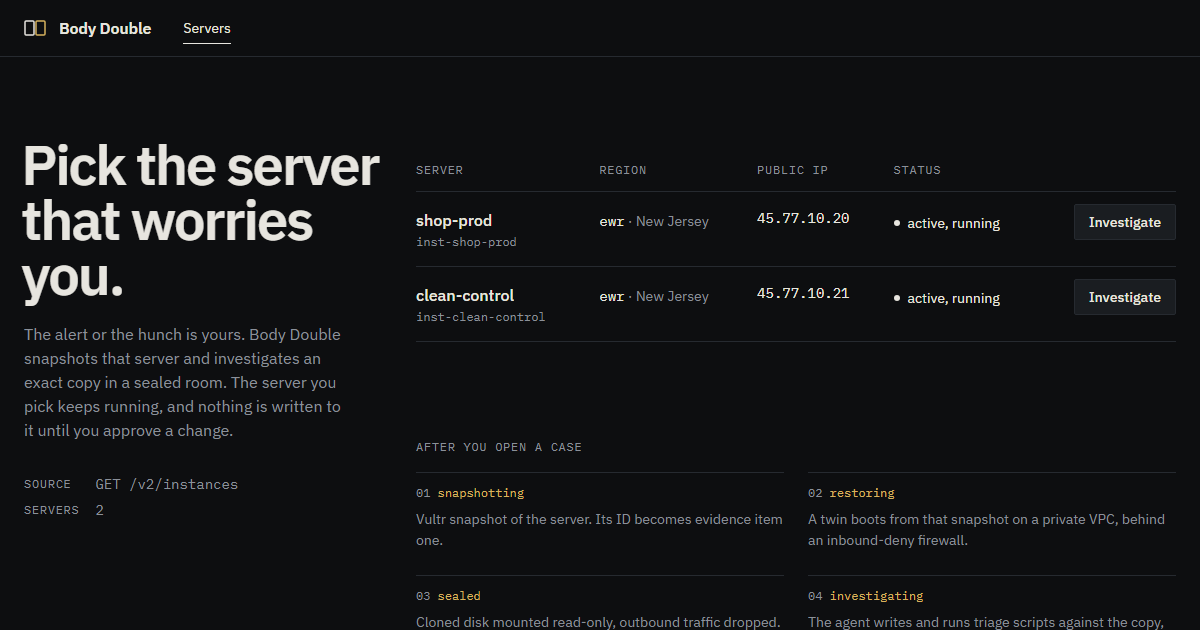
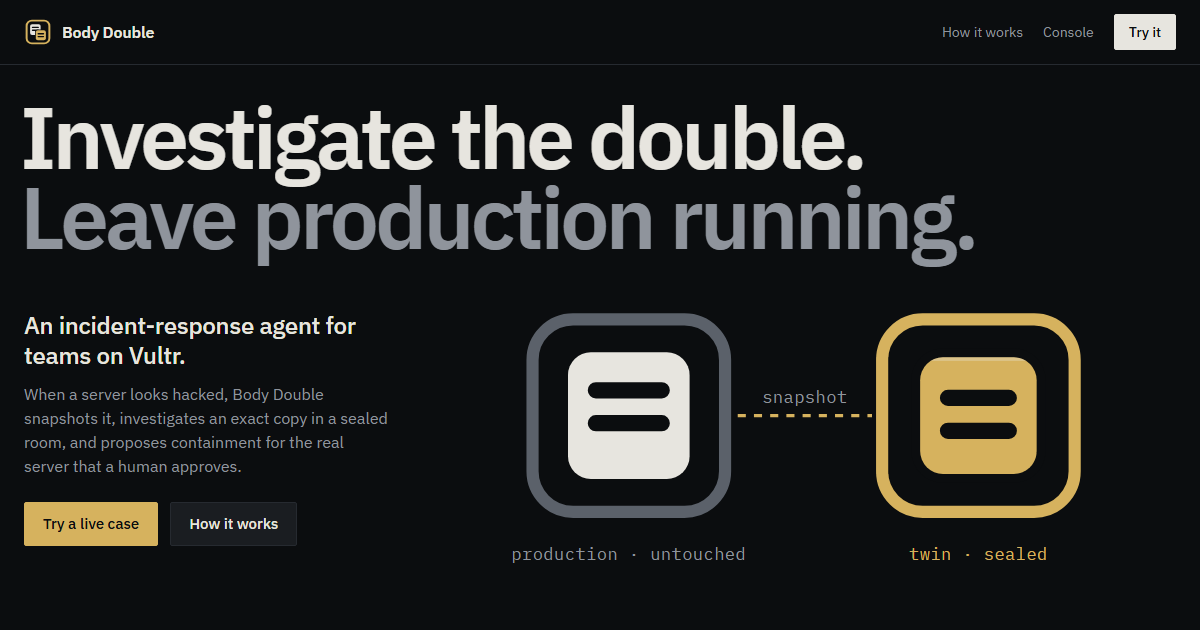
web: production metadata (Task 5): VITE_SITE_URL canonical/OG/Twitter, robots + sitemap, JSON-LD, new OG image, designed 404, per-route titles

diff --git a/web/index.html b/web/index.html
@@ -7,27 +7,44 @@
     <link rel="apple-touch-icon" href="/apple-touch-icon.png" />
     <link rel="manifest" href="/site.webmanifest" />
     <meta name="viewport" content="width=device-width, initial-scale=1.0" />
-    <title>Body Double</title>
-    <meta name="description" content="Investigate a suspect Vultr server on a sealed twin. Production is never touched until you approve a change." />
+    <title>Body Double: investigate a hacked Vultr server on its sealed twin</title>
+    <meta name="description" content="Body Double snapshots a suspect Vultr server, investigates an exact copy in a sealed room, and proposes containment a human approves. Production keeps running." />
+    <link rel="canonical" href="%VITE_SITE_URL%/" />
     <meta name="theme-color" content="#0b0d0f" />
     <meta property="og:type" content="website" />
-    <meta property="og:title" content="Body Double" />
-    <meta property="og:description" content="Investigate a suspect Vultr server on a sealed twin. Production is never touched until you approve a change." />
-    <meta property="og:image" content="/og.png" />
+    <meta property="og:site_name" content="Body Double" />
+    <meta property="og:url" content="%VITE_SITE_URL%/" />
+    <meta property="og:title" content="Body Double: investigate the double, leave production running" />
+    <meta property="og:description" content="An incident-response agent for teams on Vultr. It investigates a sealed copy of a hacked server; production changes only when a human approves." />
+    <meta property="og:image" content="%VITE_SITE_URL%/og.png" />
     <meta property="og:image:width" content="1200" />
     <meta property="og:image:height" content="630" />
+    <meta property="og:image:alt" content="Body Double: the original server in a grey frame marked untouched, its twin in a sealed brass frame." />
     <meta name="twitter:card" content="summary_large_image" />
-    <style>html,body{background:#0b0d0f;color:#e7e5df;margin:0}</style>
+    <meta name="twitter:title" content="Body Double: investigate the double, leave production running" />
+    <meta name="twitter:description" content="An incident-response agent for teams on Vultr. It investigates a sealed copy of a hacked server; production changes only when a human approves." />
+    <meta name="twitter:image" content="%VITE_SITE_URL%/og.png" />
+    <script type="application/ld+json">
+      {"@context":"https://schema.org","@type":"SoftwareApplication","name":"Body Double","applicationCategory":"SecurityApplication","operatingSystem":"Linux servers on Vultr","url":"%VITE_SITE_URL%/","description":"Incident-response agent for teams on Vultr: snapshots a suspect server, investigates a sealed twin, proposes containment a human approves.","license":"https://opensource.org/licenses/MIT"}
+    </script>
+    <style>html,body{background:#0b0d0f;color:#e7e5df;margin:0}.shell{font-family:system-ui,sans-serif;max-width:1600px;margin:0 auto;padding:120px 24px 80px}.shell h1{font-size:clamp(2.6rem,.8rem + 6.2vw,7.5rem);line-height:.92;letter-spacing:-.045em;margin:0}.shell p,.shell li{max-width:60ch;color:#8f949c;line-height:1.55}</style>
   </head>
   <body>
-    <!-- Static shell for crawlers and first paint; React replaces it on mount. -->
+    <!-- Static shell for crawlers and first paint (same headline as the hero); React replaces it on mount. -->
     <div id="root">
-      <main style="font-family:system-ui,sans-serif;max-width:640px;padding:80px 24px">
-        <h1>Body Double</h1>
-        <p>Incident response for Vultr servers. Body Double snapshots a suspect server, investigates an exact copy in a
-          sealed room with the disk read-only and egress dropped, and proposes containment that a human approves.
-          Production is never written to before that approval.</p>
-        <noscript><p>This console needs JavaScript.</p></noscript>
+      <main class="shell">
+        <h1>Investigate the double. Leave production running.</h1>
+        <p>Body Double is an incident-response agent for teams on Vultr. When a server looks hacked, it snapshots it,
+          investigates an exact copy in a sealed room, and proposes containment for the real server that a human approves.</p>
+        <p>A small team that suspects a breach has two bad options: poke the live server and risk tipping off the attacker,
+          or shut it down and take the business offline. Body Double works on the copy instead.</p>
+        <p>The copy never boots its own OS: the twin starts from a forensics ISO, mounts the cloned disk read-only, and runs
+          anything suspicious only in no-network gVisor containers with a fake DNS resolver that catches the beacon.</p>
+        <ul>
+          <li>Writes to production before approval: 0. Packets out of the investigation: 0. Containers left running: 0.</li>
+          <li>Built on Vultr Cloud Compute, Snapshots, custom ISO, VPC, firewall groups, the Vultr API and Serverless Inference.</li>
+        </ul>
+        <noscript><p>The story and the live console need JavaScript.</p></noscript>
       </main>
     </div>
     <script type="module" src="/src/main.tsx"></script>

diff --git a/web/src/routes/NotFound.tsx b/web/src/routes/NotFound.tsx
@@ -1,14 +1,26 @@
 import { Link } from 'react-router'
+import { useTitle } from '../ui/useTitle'
 
+/** 404 in the site's own terms: a sealed frame with no twin in it. */
 export function NotFound() {
+  useTitle('Page not found', 'There is no page at this address. Go back to the story or to the console.')
   return (
-    <section className="mx-auto max-w-[1600px] w-full px-4 md:px-6 py-24 grid md:grid-cols-12 gap-6">
-      <p className="label md:col-span-3">404 · no such record</p>
-      <div className="md:col-span-6">
-        <h1 className="text-4xl md:text-5xl font-semibold tracking-[-0.02em]">Nothing was found here.</h1>
-        <p className="mt-4 text-muted max-w-prose">Unlike a server, a missing page isn't a finding. Go back to your servers and pick one to investigate.</p>
-        <Link to="/console" className="btn btn-primary mt-8">Back to servers</Link>
+    <section className="mx-auto max-w-[1600px] w-full px-4 md:px-6 py-16 md:py-24 grid md:grid-cols-12 gap-x-6 gap-y-10 items-center">
+      <div className="md:col-span-7">
+        <p className="label">404 · no such path</p>
+        <h1 className="mt-4 text-[2.6rem] md:text-[4.5rem] xl:text-[6rem] leading-[0.95] font-semibold tracking-[-0.045em] -ml-[0.05em]">Page not found.</h1>
+        <p className="mt-5 text-muted max-w-[44ch] text-[17px] leading-[1.55]">There is nothing at this address to snapshot. Unlike a server, a missing page is not a finding.</p>
+        <div className="mt-8 flex flex-wrap gap-3">
+          <Link to="/" viewTransition className="btn btn-primary h-11">Back to the story</Link>
+          <Link to="/console" viewTransition className="btn h-11">Open the console</Link>
+        </div>
       </div>
+      {/* the seal frame, drawn shut around nothing */}
+      <svg viewBox="0 0 64 64" className="md:col-span-4 md:col-start-9 w-40 md:w-full max-w-[22rem]" aria-hidden="true">
+        <rect x="8" y="8" width="48" height="48" rx="10" fill="none" stroke="var(--color-agent)" strokeWidth="1.6" />
+        <rect x="20" y="20" width="24" height="24" rx="4.5" fill="none" stroke="var(--color-line)" strokeWidth="1.2" strokeDasharray="2 2" />
+        <text x="32" y="61.5" textAnchor="middle" fontFamily="var(--font-mono)" fontSize="3.2" fill="var(--color-muted)">twin · empty</text>
+      </svg>
     </section>
   )
 }

diff --git a/web/vite.config.ts b/web/vite.config.ts
@@ -1,13 +1,41 @@
 import react from '@vitejs/plugin-react'
 import tailwindcss from '@tailwindcss/vite'
-import { defineConfig } from 'vite'
+import { defineConfig, loadEnv, type Plugin } from 'vite'
 
 // /api/* -> control plane (prefix stripped). API_TARGET=http://localhost:8001 for the mock.
 const target = process.env.API_TARGET ?? 'http://localhost:8000'
 const proxy = { '/api': { target, changeOrigin: true, rewrite: (p: string) => p.replace(/^\/api/, '') } }
 
-export default defineConfig({
-  plugins: [react(), tailwindcss()],
-  server: { port: Number(process.env.WEB_PORT ?? 5173), proxy },
-  preview: { port: Number(process.env.WEB_PORT ?? 4173), proxy },
+// Public, indexable routes. Case pages are per-visitor and stay out of the sitemap.
+const ROUTES = ['/', '/console']
+
+/** robots.txt and sitemap.xml from VITE_SITE_URL: served in dev, emitted on build. */
+function seo(site: string): Plugin {
+  const robots = `User-agent: *\nAllow: /\nDisallow: /cases/\n\nSitemap: ${site}/sitemap.xml\n`
+  const sitemap = `<?xml version="1.0" encoding="UTF-8"?>\n<urlset xmlns="http://www.sitemaps.org/schemas/sitemap/0.9">\n${
+    ROUTES.map((r) => `  <url><loc>${site}${r}</loc></url>`).join('\n')}\n</urlset>\n`
+  const files: Record<string, [string, string]> = { 'robots.txt': [robots, 'text/plain'], 'sitemap.xml': [sitemap, 'application/xml'] }
+  return {
+    name: 'bd-seo',
+    configureServer(server) {
+      server.middlewares.use((req, res, next) => {
+        const f = files[(req.url ?? '').replace(/^\//, '')]
+        if (!f) return next()
+        res.setHeader('content-type', f[1])
+        res.end(f[0])
+      })
+    },
+    generateBundle() {
+      for (const [fileName, [source]] of Object.entries(files)) this.emitFile({ type: 'asset', fileName, source })
+    },
+  }
+}
+
+export default defineConfig(({ mode }) => {
+  const site = (process.env.VITE_SITE_URL ?? loadEnv(mode, process.cwd(), 'VITE_').VITE_SITE_URL ?? 'http://localhost:5173').replace(/\/$/, '')
+  return {
+    plugins: [react(), tailwindcss(), seo(site)],
+    server: { port: Number(process.env.WEB_PORT ?? 5173), proxy },
+    preview: { port: Number(process.env.WEB_PORT ?? 4173), proxy },
+  }
 })

diff --git a/web/e2e/seo.spec.ts b/web/e2e/seo.spec.ts
@@ -1,0 +1,38 @@
+import { expect, test } from '@playwright/test'
+import { execSync } from 'node:child_process'
+import { readFileSync } from 'node:fs'
+
+const SITE = process.env.VITE_SITE_URL ?? 'http://localhost:5173'
+
+test('/ carries title, description, Open Graph, Twitter card and canonical', async ({ page }) => {
+  await page.goto('/')
+  await expect(page).toHaveTitle(/\S/)
+  const meta = (sel: string) => page.locator(sel).first().getAttribute('content')
+  expect(await meta('meta[name="description"]')).toBeTruthy()
+  expect(await meta('meta[property="og:title"]')).toBeTruthy()
+  expect(await meta('meta[property="og:description"]')).toBeTruthy()
+  expect(await meta('meta[property="og:image"]')).toMatch(new RegExp(`^${SITE.replace(/[.:/]/g, '\\$&')}/`))
+  expect(await meta('meta[name="twitter:card"]')).toBe('summary_large_image')
+  expect(await page.locator('link[rel="canonical"]').first().getAttribute('href')).toBe(`${SITE}/`)
+})
+
+test('robots.txt is served and points at the sitemap', async ({ request }) => {
+  const r = await request.get('/robots.txt')
+  expect(r.status()).toBe(200)
+  expect(await r.text()).toContain(`Sitemap: ${SITE}/sitemap.xml`)
+})
+
+test('the build writes a sitemap listing / and /console under VITE_SITE_URL', () => {
+  test.setTimeout(120_000)
+  execSync('npx vite build --outDir dist-seo --emptyOutDir', { stdio: 'pipe', env: { ...process.env, VITE_SITE_URL: SITE } })
+  const xml = readFileSync('dist-seo/sitemap.xml', 'utf8')
+  expect(xml).toContain(`<loc>${SITE}/</loc>`)
+  expect(xml).toContain(`<loc>${SITE}/console</loc>`)
+  expect(readFileSync('dist-seo/robots.txt', 'utf8')).toContain(`${SITE}/sitemap.xml`)
+})
+
+test('an unknown path renders the 404 page with its own title', async ({ page }) => {
+  await page.goto('/no/such/page')
+  await expect(page.getByRole('heading', { level: 1 })).toHaveText(/not found|Nothing/i)
+  await expect(page).toHaveTitle(/not found/i)
+})

diff --git a/web/src/ui/useTitle.ts b/web/src/ui/useTitle.ts
@@ -1,16 +1,18 @@
 import { useEffect } from 'react'
 
-/** Unique document title per screen. */
-export function useTitle(title: string) {
+export const SITE = (import.meta.env.VITE_SITE_URL ?? location.origin).replace(/\/$/, '')
+
+/** Unique document title (and optionally description) per screen; canonical follows the route under VITE_SITE_URL. */
+export function useTitle(title: string, description?: string) {
   useEffect(() => {
-    document.title = title ? `${title} · Body Double` : 'Body Double'
-    // Canonical per route, set at runtime: a static tag in index.html makes vite try to bundle its href.
+    document.title = title.startsWith('Body Double') ? title : title ? `${title} · Body Double` : 'Body Double'
+    if (description) document.querySelector('meta[name="description"]')?.setAttribute('content', description)
     let link = document.querySelector<HTMLLinkElement>('link[rel="canonical"]')
     if (!link) {
       link = document.createElement('link')
       link.rel = 'canonical'
       document.head.appendChild(link)
     }
-    link.href = location.origin + location.pathname
-  }, [title])
+    link.href = SITE + location.pathname
+  }, [title, description])
 }

diff --git a/web/src/story/Story.tsx b/web/src/story/Story.tsx
@@ -9,7 +9,8 @@ import { blast, hero, how, note, problem, prod, tryIt, vultr, walls, whyCopy, ty
 import './story.css'
 
 export function Story() {
-  useTitle('')
+  useTitle('Body Double: investigate a hacked Vultr server on its sealed twin',
+    'Body Double snapshots a suspect Vultr server, investigates an exact copy in a sealed room, and proposes containment a human approves. Production keeps running.')
   const root = useRef<HTMLDivElement>(null)
   const [contained, setContained] = useState(false)
   const onCrossing = useCallback((on: boolean) => setContained(on), [])
